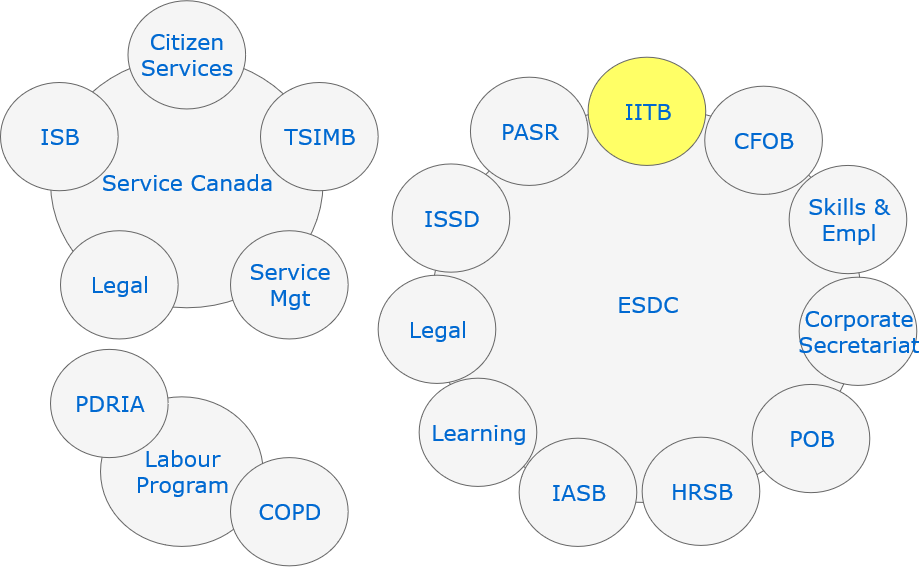
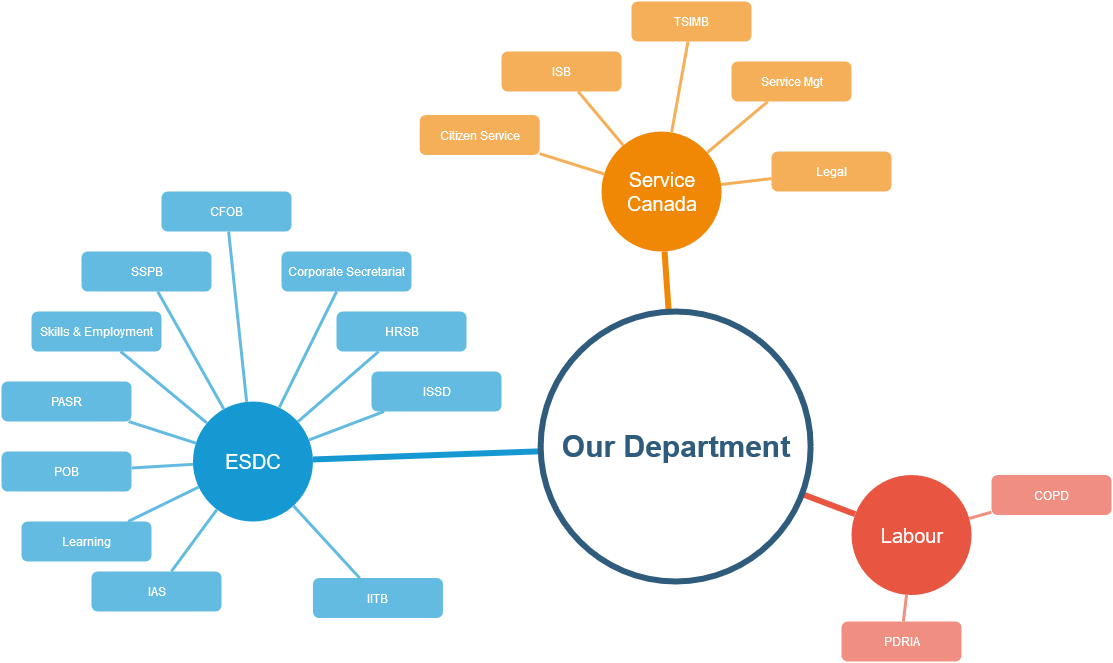
better ESDC Overview image

diff --git a/presentations/General-IT-and-strategy.md b/presentations/General-IT-and-strategy.md
@@ -22,6 +22,11 @@ Innovation, Information, and Technology Branch
 
 ![IIT branch in relation to the others](assets/images/ESDC_overview.png)
 
+Note:
+
+- Why am I showing you this?
+- You will understand later
+
 ### IITB's Vision Statement
 
 _Powered by innovative thinking and approaches, delivering efficient, reliable and secure services and solutions of best value to Clients_
@@ -238,6 +243,11 @@ Note:
 ### Technology is ubiquitous
 
 ![IT within all the branches](assets/images/imit-moving-fwd-strategy.png)
+
+Note:
+
+- Show the image at the beginning of the presentation
+- The proportion of IT in the department does not reflect a single branch
 
 ---
 
